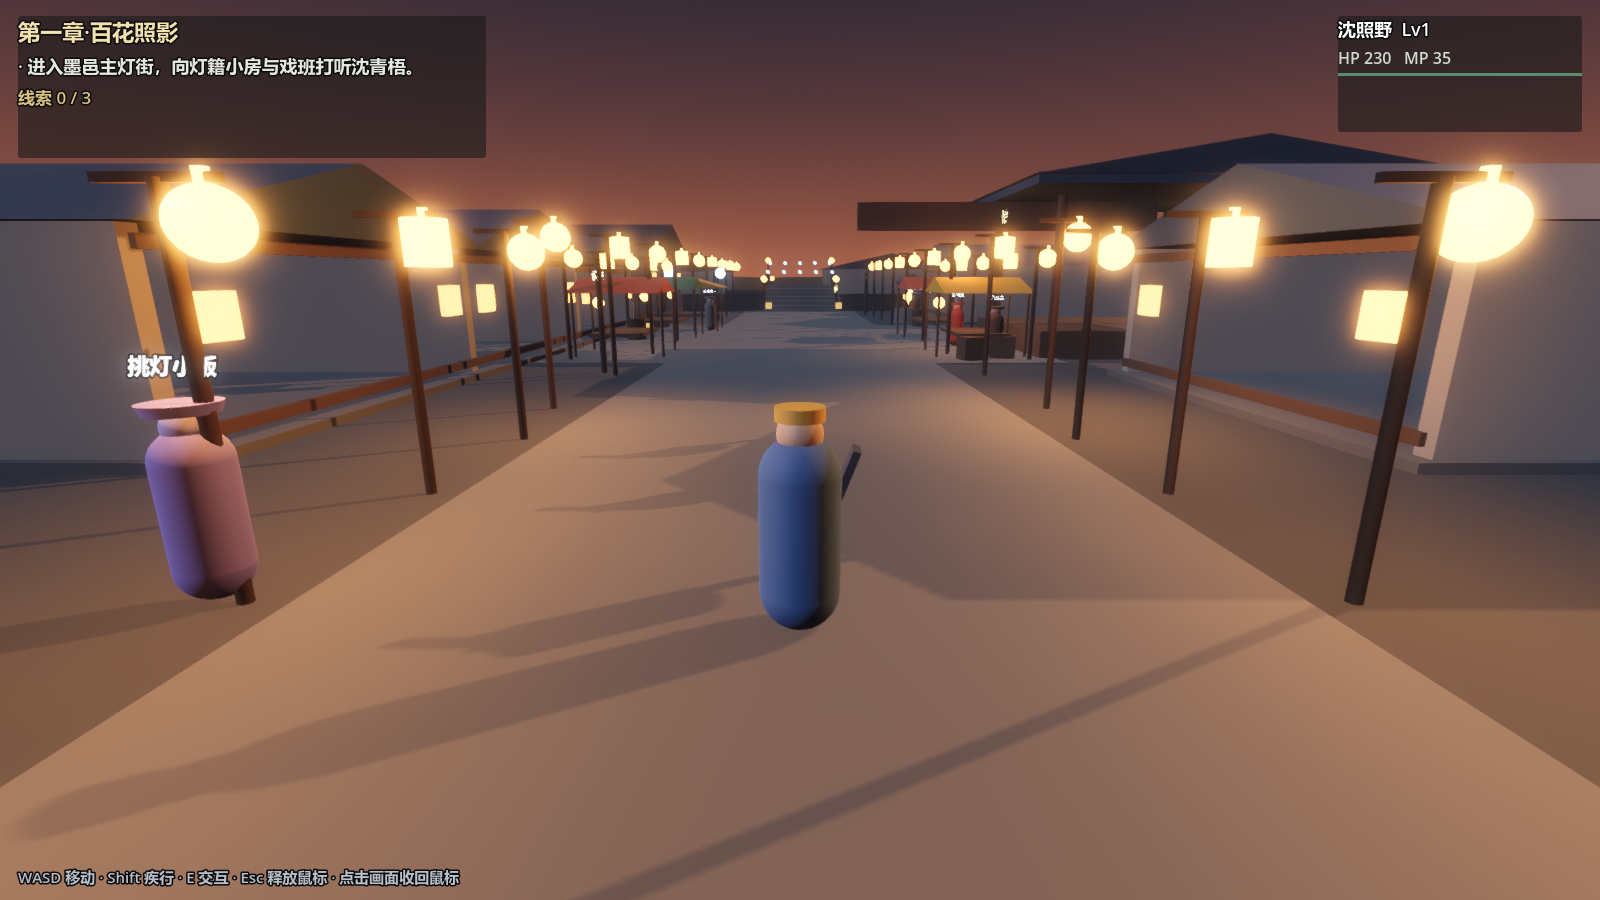
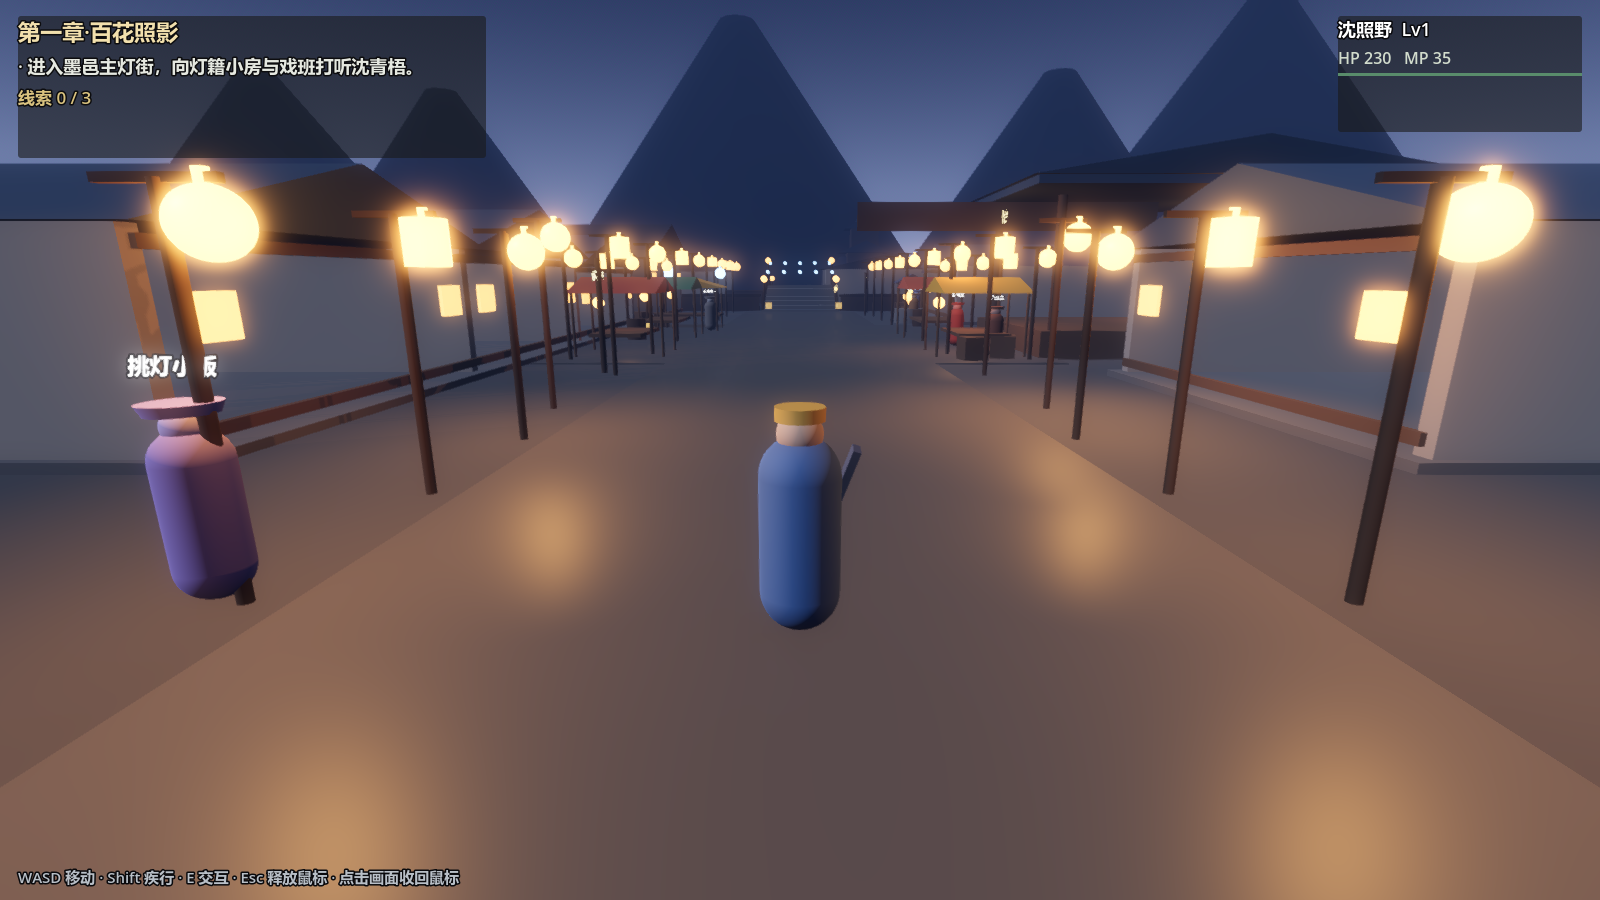
art: 按参考图基线把墨邑调整为蓝调时刻 + 远景第三层 + 湿石反射
依据设计资料包内的参考图（氛围参考 3 张 / ui规范 reference_art 3 张占位图）：
- 环境基调由暖橙黄昏改为蓝调时刻（冷蓝环境 + 暖灯点缀），新增 environment_presets（dusk 备用 / early_night 默认），time_world 按 time_band 取预设
- 新增远景第三层：7 座雾中山体剪影 + 2 座层叠塔（_mountain / _pagoda）
- 街道与广场改为湿石材质（粗糙度 0.42）+ 启用 SSR，让灯笼在石面留下反射
- 截图更新为蓝调版本；自检 24/24、冒烟 0 错误

diff --git a/开发文档/05_美术标准_ArtBible.md b/开发文档/05_美术标准_ArtBible.md
@@ -53,6 +53,30 @@
 
 **点缀色规则**：暖灯与月色在画面中的面积占比建议 10%—20%，其余为低饱和环境色。禁止让暖色铺满画面。
 
+### 2.1b 参考图基线（来自设计资料包，2026-10-15 复核）
+
+**参考图清单**（均在 `../云阙行_设计资料包_v1.0/` 内，只读参考）
+
+| 文件 | 性质 | 用途 |
+|---|---|---|
+| `ui规范/reference_art/墨邑灯会场景占位图.png` | AI 占位图 | **本作城镇氛围基准**：蓝调时刻、湿石街道、木构商铺暖灯、石拱桥、雾中山体 + 远处多级塔 |
+| `ui规范/reference_art/百面灯魇战场占位图.png` | AI 占位图 | M4 BOSS 战场基准：水面戏台、巨型面具、红灯笼、大月亮、湿石广场倒影 |
+| `ui规范/reference_art/沈照野立绘占位图.png` | AI 占位图 | 角色气质参考（M7 角色建模用） |
+| `氛围参考/` 3 张 | AI 氛围图 | 光影与气质参考；其中 `a_wide_cinematic_*` 含花灯夜market街市密度参考 |
+| `原型图/` 11 张 | 设计原型图 | UI/战斗/武器/地图/舞台的**功能**参考（不是美术风格参考） |
+| 资料包概念海报 | 设计总览 | 世界观、四灵、武器、主角、地图、UI 与「推荐引擎 UE5 / 1920×1080」等技术规格 |
+
+**从参考图提取的四条硬性技术手段**（必须落到实现里）
+
+| # | 手段 | 说明 | 工程落地 |
+|---|---|---|---|
+| 1 | **蓝调时刻 + 暖灯点缀** | 环境是冷蓝紫（天空、雾、月光、石面），暖橙只出现在灯火与窗内光。冷暖对比是氛围来源 | `environment_presets.early_night`（默认）；暖色面积 10%—20% |
+| 2 | **湿石反射** | 雨后石街与水面把灯火拉成竖条倒影，是参考图最有辨识度的一笔 | 街道/广场粗糙度 0.42 + 启用 SSR；水面低粗糙度 + 法线滚动；正式阶段上平面反射 |
+| 3 | **雾中第三层** | 远景山体剪影 + 山中多级塔，提供纵深与「世界很大」的感觉 | 7 座低模山体 + 2 座层叠塔（`_mountain` / `_pagoda`），靠雾与冷色退化 |
+| 4 | **前景遮挡** | 柳枝、屋檐、灯架压住画面边缘，避免一览无余 | 城镇边缘树冠、桥头灯柱、商铺出檐已有；正式阶段补柳条与花枝 |
+
+**与旧取色的差异记录**：第一版实现按「黄昏暖调」（sun 0.55 暖橙）出图，偏暖；按参考图复核后改为**蓝调时刻**（sun 0.18 残照 + moon 0.55 冷光）。`dusk` 预设保留备用（序章落灯观开场可用暖调）。
+
 ### 2.2 色彩分层（保证三层可读）
 
 | 层次 | 饱和度 | 明度 | 手段 |
